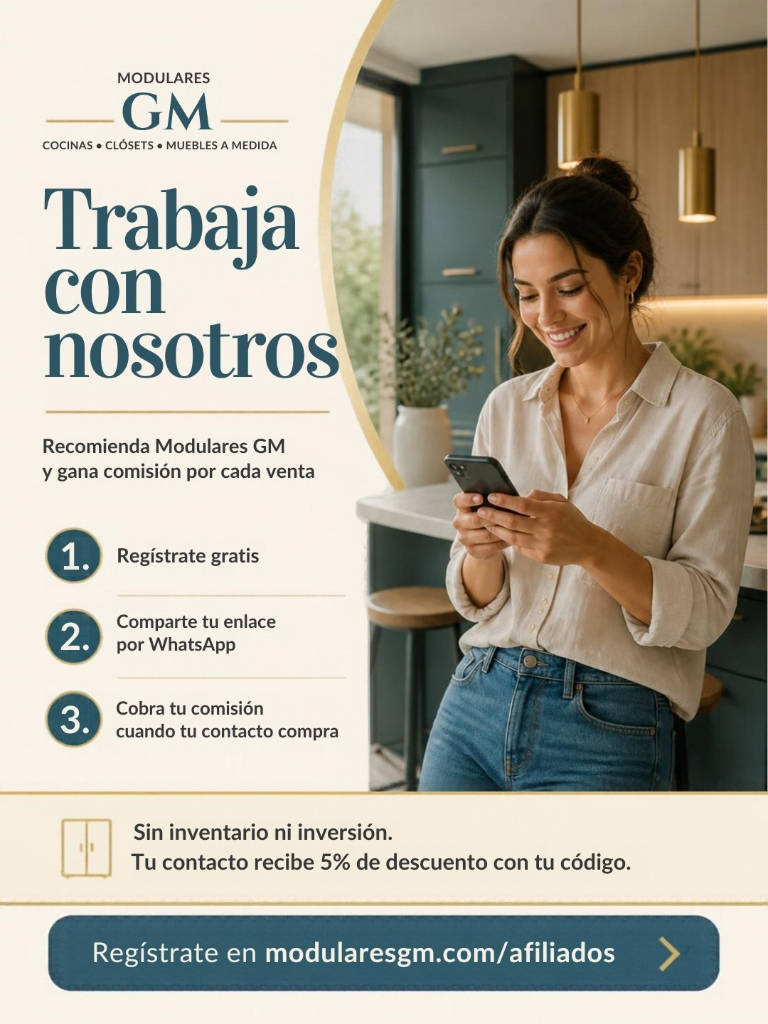
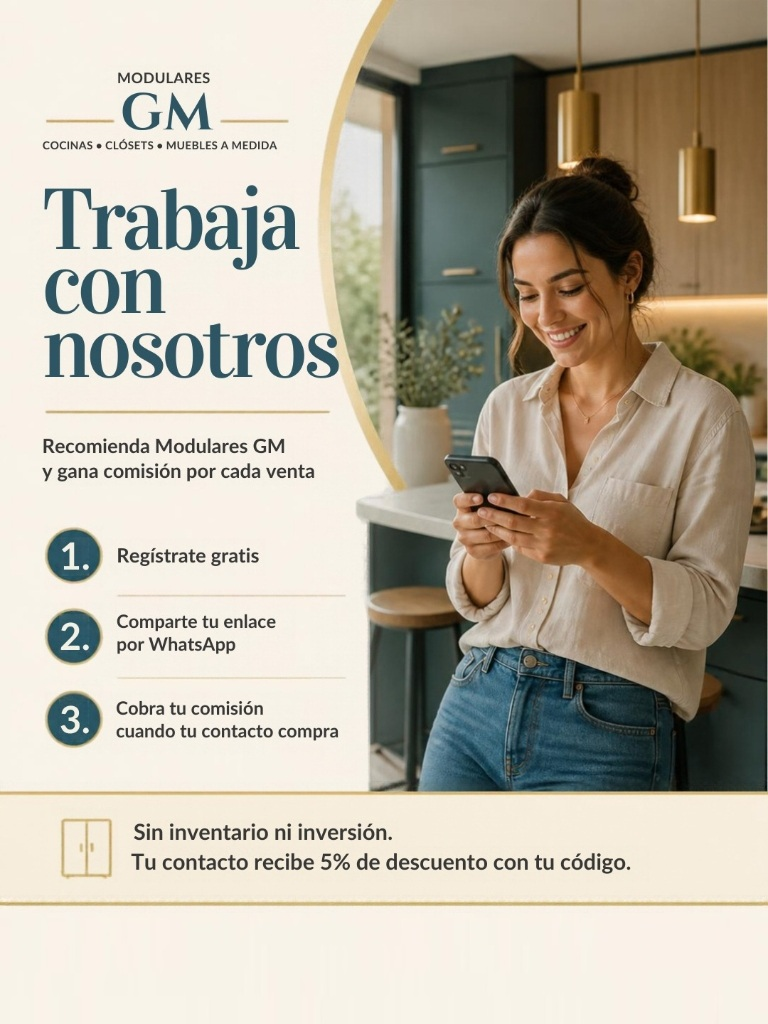
feat: redesign UI contrast, sync firebase catalog, affiliate layout

Changed region(s): [[0.0625, 0.875, 0.9375, 0.9688]]

diff --git a/src/components/home/storefront-sections.tsx b/src/components/home/storefront-sections.tsx
@@ -162,13 +162,13 @@ export function CatalogSection({ services, products }: { services?: Service[]; p
 
             {/* Descripción y botón */}
             <div className="p-6 flex-1 flex flex-col justify-between gap-4">
-              <p className="text-xs sm:text-sm text-muted-foreground font-light leading-relaxed">
+              <p className="text-xs sm:text-sm text-stone-600 dark:text-stone-300 font-light leading-relaxed">
                 {cat.desc}
               </p>
 
-              <div className="pt-4 border-t border-border/40 flex items-center justify-between text-xs font-bold text-secondary group-hover:text-secondary/90 transition-colors">
+              <div className="pt-4 border-t border-border/40 flex items-center justify-between text-xs font-bold text-stone-900 dark:text-stone-200 group-hover:text-primary transition-colors">
                 <span className="uppercase tracking-wider">Explorar Colección & Modelos</span>
-                <span className="inline-flex items-center justify-center h-8 w-8 rounded-full bg-secondary/15 text-secondary group-hover:bg-secondary group-hover:text-secondary-foreground transition-all duration-300">
+                <span className="inline-flex items-center justify-center h-8 w-8 rounded-full bg-stone-200/50 dark:bg-stone-800 text-stone-900 dark:text-stone-100 group-hover:bg-primary group-hover:text-primary-foreground transition-all duration-300">
                   <ArrowRight size={14} className="transition-transform group-hover:translate-x-0.5" />
                 </span>
               </div>
@@ -297,30 +297,25 @@ export function AffiliateBand() {
           </div>
 
           {/* Columna Derecha: Tarjeta Fotográfica con Arco */}
-          <div className="lg:col-span-5 relative flex justify-center">
+          <div className="lg:col-span-5 relative flex justify-center mt-10 lg:mt-0">
             <div className="relative w-full max-w-sm aspect-[3/4] rounded-3xl overflow-hidden border border-secondary/30 shadow-[0_20px_50px_rgba(0,0,0,0.1)] dark:shadow-[0_20px_50px_rgba(0,0,0,0.5)] group">
-              <Image
-                src="/images/campaign/flyer-afiliados-trabaja-con-nosotros.jpg"
-                alt="Trabaja con nosotros - Modulares GM Programa de Afiliados"
-                fill
-                sizes="(max-width: 768px) 100vw, 40vw"
-                className="object-cover transition-transform duration-700 group-hover:scale-105"
-              />
+              <div className="w-full h-full relative">
+                 <Image
+                    src="/images/campaign/flyer-afiliados-trabaja-con-nosotros.jpg"
+                    alt="Trabaja con nosotros - Modulares GM Programa de Afiliados"
+                    fill
+                    sizes="(max-width: 768px) 100vw, 40vw"
+                    className="object-cover transition-transform duration-700 group-hover:scale-105"
+                  />
+              </div>
               <div className="absolute inset-0 bg-gradient-to-t from-black/60 via-transparent to-transparent pointer-events-none" />
 
-              <div className="absolute bottom-5 left-5 right-5 z-10 flex items-center justify-between text-white">
-                <div>
-                  <span className="text-[10px] font-bold uppercase tracking-[0.2em] text-secondary block">
-                    Comisiones Directas
-                  </span>
-                  <span className="text-xs font-light">Para arquitectos, instaladores y promotores</span>
-                </div>
+              <div className="absolute bottom-5 left-5 right-5 z-10 flex flex-col items-center justify-between text-white lg:hidden">
                 <Link
                   href="/afiliados"
-                  className="h-10 w-10 rounded-full bg-secondary text-stone-950 flex items-center justify-center hover:scale-110 active:scale-95 transition-all shadow-md shrink-0"
-                  title="Ir al Portal de Afiliados"
+                  className="w-full inline-flex items-center justify-center gap-3 px-6 py-4 rounded-full bg-[#1b736b] text-white font-bold text-sm shadow-lg active:scale-95"
                 >
-                  <ArrowRight size={16} />
+                  <span>Regístrate en modularesgm.com/afiliados</span>
                 </Link>
               </div>
             </div>

diff --git a/src/components/layout/footer.tsx b/src/components/layout/footer.tsx
@@ -26,27 +26,27 @@ export function Footer({ address, whatsappNumber, socialUrls }: FooterProps) {
            <div className="flex items-center gap-3 mb-4">
              <Image src="/logo.png" alt="Modulares GM Logo" width={48} height={48} className="w-12 h-12 object-contain drop-shadow-md" />
             <div className="flex flex-col">
-                <span className="block text-xl font-bold tracking-tight text-primary">
+                <span className="block text-xl font-bold tracking-tight text-stone-900 dark:text-white">
                     MODULARES GM
                 </span>
-                 <p className="text-xs font-medium text-primary/80 dark:text-muted-foreground -mt-1 leading-tight">
+                 <p className="text-xs font-medium text-stone-600 dark:text-muted-foreground -mt-1 leading-tight">
                     Cocinas y Cuarzos
                 </p>
             </div>
           </div>
-          <p className="text-primary/70 dark:text-muted-foreground text-sm font-headline max-w-xs font-medium">
+          <p className="text-stone-700 dark:text-muted-foreground text-sm font-headline max-w-xs font-medium">
             Muebles • Diseño • Construcción. Creando espacios excepcionales.
           </p>
         </div>
 
         <div className="flex flex-col items-center">
-          <Link href="/afiliados" className="mb-3 text-sm font-bold text-primary underline underline-offset-4">
+          <Link href="/afiliados" className="mb-3 text-sm font-bold text-stone-900 dark:text-white underline underline-offset-4">
             Trabaja con nosotros · Programa de afiliados
           </Link>
-          <Link href="/precios" className="mb-6 text-sm font-bold text-primary underline underline-offset-4">
+          <Link href="/precios" className="mb-6 text-sm font-bold text-stone-900 dark:text-white underline underline-offset-4">
             Precios de cocinas y muebles
           </Link>
-          <p className="text-xs font-bold uppercase tracking-widest mb-4 text-primary/60 dark:text-muted-foreground">
+          <p className="text-xs font-bold uppercase tracking-widest mb-4 text-stone-600 dark:text-muted-foreground">
             Síguenos
           </p>
           <div className="flex gap-4">
@@ -74,18 +74,18 @@ export function Footer({ address, whatsappNumber, socialUrls }: FooterProps) {
           </div>
         </div>
 
-        <div className="flex flex-col items-center md:items-end text-sm space-y-2 font-headline text-primary/70 dark:text-muted-foreground font-medium">
+        <div className="flex flex-col items-center md:items-end text-sm space-y-2 font-headline text-stone-700 dark:text-muted-foreground font-medium">
           <p>{address}</p>
           <p>Ecuador</p>
           <p>{whatsappNumber}</p>
           <div className="text-sm font-sans flex items-center justify-center gap-[2px]">
             <span>info</span>
-            <span className="text-primary">&#64;</span>
+            <span className="text-stone-900 dark:text-white">&#64;</span>
             <span>modularesgm.com</span>
           </div>
         </div>
       </div>
-      <div className="max-w-7xl mx-auto px-6 text-center border-t border-primary/10 pt-8 text-primary/50 dark:text-muted-foreground">
+      <div className="max-w-7xl mx-auto px-6 text-center border-t border-stone-200 dark:border-stone-800 pt-8 text-stone-500 dark:text-muted-foreground">
         <p className="text-xs font-sans">
           &copy; {new Date().getFullYear()} MODULARES GM. Todos los derechos reservados.
         </p>

diff --git a/src/components/home/contact/contact-form.tsx b/src/components/home/contact/contact-form.tsx
@@ -99,7 +99,7 @@ export function ContactForm() {
   }
 
   return (
-    <div className="flex h-full flex-col justify-between rounded-[2rem] border border-stone-200/80 bg-white/90 p-6 sm:p-8 lg:p-10 shadow-[0_8px_30px_rgb(0,0,0,0.03)] backdrop-blur-xl dark:border-stone-800/80 dark:bg-stone-900/60">
+    <div className="flex h-full flex-col justify-between rounded-[2rem] border border-stone-200/80 bg-white/90 p-4 sm:p-6 lg:p-8 shadow-[0_8px_30px_rgb(0,0,0,0.03)] backdrop-blur-xl dark:border-stone-800/80 dark:bg-stone-900/60">
       <div>
         {/* Cabecera del Formulario */}
         <div className="pb-4 border-b border-stone-200/80 dark:border-stone-800 mb-6">
@@ -120,32 +120,7 @@ export function ContactForm() {
           </p>
         </div>
 
-        {/* Selector de Tipo de Proyecto (Chips interactivos) */}
-        <div className="mb-6">
-          <label className="block text-[10px] font-bold uppercase tracking-[0.18em] text-stone-500 dark:text-stone-400 mb-2.5">
-            Tipo de Proyecto o Superficie
-          </label>
-          <div className="flex flex-wrap gap-2">
-            {PROJECT_TYPES.map((type) => {
-              const isSelected = selectedType === type;
-              return (
-                <button
-                  key={type}
-                  type="button"
-                  onClick={() => handleTypeSelect(type)}
-                  className={cn(
-                    'text-xs font-medium px-3.5 py-1.5 rounded-full border transition-all duration-200 select-none active:scale-95',
-                    isSelected
-                      ? 'border-secondary bg-secondary text-stone-950 font-semibold shadow-sm ring-2 ring-secondary/30'
-                      : 'border-stone-200 bg-stone-50/80 text-stone-700 hover:border-stone-300 hover:bg-stone-100 dark:border-stone-800 dark:bg-stone-950/40 dark:text-stone-300 dark:hover:border-stone-700'
-                  )}
-                >
-                  {type}
-                </button>
-              );
-            })}
-          </div>
-        </div>
+
 
         {/* Formulario */}
         <Form {...form}>
@@ -235,7 +210,7 @@ export function ContactForm() {
                   <FormControl>
                     <Textarea
                       placeholder="Indíquenos las dimensiones tentativas, ubicación en Ecuador, materiales de preferencia (ej. cuarzo Calacatta Gold, melamina hidrófuga) o si ya cuenta con planos arquitectónicos..."
-                      className="min-h-[110px] resize-none rounded-xl border-stone-200 bg-stone-50/50 p-3.5 text-stone-900 transition-all focus-visible:border-secondary focus-visible:bg-white focus-visible:ring-1 focus-visible:ring-secondary/50 dark:border-stone-800 dark:bg-stone-950/40 dark:text-stone-100 dark:focus-visible:border-secondary dark:focus-visible:bg-stone-950"
+                      className="min-h-[80px] resize-none rounded-xl border-stone-200 bg-stone-50/50 p-3.5 text-stone-900 transition-all focus-visible:border-secondary focus-visible:bg-white focus-visible:ring-1 focus-visible:ring-secondary/50 dark:border-stone-800 dark:bg-stone-950/40 dark:text-stone-100 dark:focus-visible:border-secondary dark:focus-visible:bg-stone-950"
                       data-webmcp-input="projectDetails"
                       {...field}
                     />

diff --git a/src/components/home/hero-slider/hero-slider.tsx b/src/components/home/hero-slider/hero-slider.tsx
@@ -97,7 +97,7 @@ export function HeroSlider({ heroSubtitle, ctaText, stats }: HeroSliderProps) {
     <section className="relative z-10 select-none" aria-label="Servicios destacados de Modulares GM">
       {/* Hero: ocupa la pantalla menos la barra superior (36px) y la franja de stats (~92px) */}
       <div className="relative isolate flex min-h-[calc(100svh-36px-92px)] items-center overflow-hidden bg-black pt-28 pb-10 lg:pt-24">
-        <div className="absolute inset-0 -z-20">
+        <div className="absolute inset-0 lg:left-[40%] -z-20">
           {HERO_SLIDES.map((s, i) => (
             <Image
               key={s.id}
@@ -110,7 +110,7 @@ export function HeroSlider({ heroSubtitle, ctaText, stats }: HeroSliderProps) {
             />
           ))}
         </div>
-        <div className="absolute inset-0 -z-10 bg-gradient-to-r from-black/80 via-black/30 to-transparent" />
+        <div className="absolute inset-0 -z-10 bg-gradient-to-r from-black/90 via-black/60 to-transparent lg:bg-gradient-to-r lg:from-black lg:via-black/90 lg:to-transparent" />
         <div className="absolute inset-0 -z-10 bg-gradient-to-t from-black/50 via-transparent to-transparent" />
 
         <div className="mx-auto grid w-full max-w-7xl items-center gap-8 px-4 sm:px-6 lg:grid-cols-12 lg:gap-12 lg:px-10">

diff --git a/src/components/layout/top-bar.tsx b/src/components/layout/top-bar.tsx
@@ -36,8 +36,13 @@ const TICKER_MESSAGES = [
   },
 ];
 
+import { useSiteContent } from '@/context/site-content-provider';
+
 export function TopBar() {
   const { code, affiliateName, discountPercent, clearCode } = useAffiliate();
+  const { siteContent } = useSiteContent();
+
+  const tickerMessages = siteContent?.tickerMessages || TICKER_MESSAGES;
 
   return (
     <div
@@ -76,10 +81,10 @@ export function TopBar() {
 
           {/* Track continuo doble para rotación infinita sin cortes */}
           <div className="announcement-ticker-track flex items-center py-1 group-hover:[animation-play-state:paused]">
-            {[...TICKER_MESSAGES, ...TICKER_MESSAGES].map((item, idx) => (
+            {[...tickerMessages, ...tickerMessages].map((item, idx) => (
               <span key={`${item.id}-${idx}`} className="inline-flex items-center gap-3 shrink-0 px-4">
                 <Link
-                  href={item.href}
+                  href={item.href || '#'}
                   className="font-medium tracking-wide transition-all duration-200 hover:text-secondary hover:underline underline-offset-4 flex items-center gap-1.5 text-stone-200 hover:text-white"
                 >
                   <span>{item.text}</span>

diff --git a/src/components/home/contact/contact-section.tsx b/src/components/home/contact/contact-section.tsx
@@ -41,10 +41,10 @@ export function ContactSection({ siteContent }: { siteContent: SiteContent }) {
           </div>
         </div>
 
-        {/* Estructura en Proporciones Áureas: Dossier del Atelier (5) + Formulario Esculpido (7) */}
+        {/* Estructura en Proporciones Áureas: Dossier del Atelier (6) + Formulario Esculpido (6) */}
         <div className="grid grid-cols-1 lg:grid-cols-12 gap-8 lg:gap-12 items-stretch">
           {/* Columna Izquierda: Atelier, Canales Directos, Estándares & Mapa */}
-          <div className="lg:col-span-5 flex flex-col">
+          <div className="lg:col-span-6 flex flex-col">
             <ContactInfo
               whatsappNumber={siteContent.whatsappNumber}
               address={siteContent.address}
@@ -54,7 +54,7 @@ export function ContactSection({ siteContent }: { siteContent: SiteContent }) {
           </div>
 
           {/* Columna Derecha: Formulario Esculpido de Alta Precisión */}
-          <div className="lg:col-span-7 flex flex-col">
+          <div className="lg:col-span-6 flex flex-col">
             <ContactForm />
           </div>
         </div>

diff --git a/src/lib/data.ts b/src/lib/data.ts
@@ -34,7 +34,7 @@ export const defaultBrands: Brand[] = [
 
 
 export const defaultStats: Stat[] = [
-  { id: 1, value: '10+', label: 'AÑOS EXP.', icon: 'Globe' },
+  { id: 1, value: '18+', label: 'AÑOS EXP.', icon: 'Globe' },
   { id: 2, value: '1000+', label: 'PROYECTOS', icon: 'Home' },
   { id: 3, value: '100%', label: 'PERSONALIZADO', icon: 'Ruler' },
   { id: 4, value: 'EC', label: 'NIVEL NACIONAL', icon: 'MapPin' }

diff --git a/src/lib/types.ts b/src/lib/types.ts
@@ -74,6 +74,7 @@ export interface SiteContent {
   stats: Stat[];
   brands: Brand[];
   products: Product[];
+  tickerMessages?: { id: string; text: string; href?: string; highlight?: boolean }[];
 }
 
 export interface Lead {

diff --git a/docs/09_Store_Refinement_and_Hero_Branding.md b/docs/09_Store_Refinement_and_Hero_Branding.md
@@ -10,7 +10,7 @@ Este documento registra la arquitectura de la tienda, optimización del Hero sli
 graph TD
     A[Usuario entra a Modulares GM] --> B{Ruta Seleccionada}
     B -->|Home /| C[Hero Slider con Fotos de Catálogo Oficial]
-    C --> D[AnimatedCounter: 0 -> 10+, 1000+, 100%]
+    C --> D[AnimatedCounter: 0 -> 18+, 1000+, 100%]
     D --> E[BrandsCarousel: SVGs y WebPs en Monocromo Luxury]
     E --> F[FeaturedProducts: Tarjetas Compactas 4-cols lg:basis-1/4]
     
@@ -56,4 +56,4 @@ Renderizado con filtro monocromo sutil (`grayscale opacity-60 hover:grayscale-0 
 
 ## ⚡ 5. Contador Animado de Estadísticas (`AnimatedCounter`)
 
-Se implementó el componente con `IntersectionObserver` y easing cúbico de Emil Kowalski (`1 - Math.pow(1 - progress, 3)`), garantizando un conteo suave de 0 al valor objetivo (`10+`, `1000+`, `100%`) en cuanto la franja entra en el viewport del usuario.
+Se implementó el componente con `IntersectionObserver` y easing cúbico de Emil Kowalski (`1 - Math.pow(1 - progress, 3)`), garantizando un conteo suave de 0 al valor objetivo (`18+`, `1000+`, `100%`) en cuanto la franja entra en el viewport del usuario.
